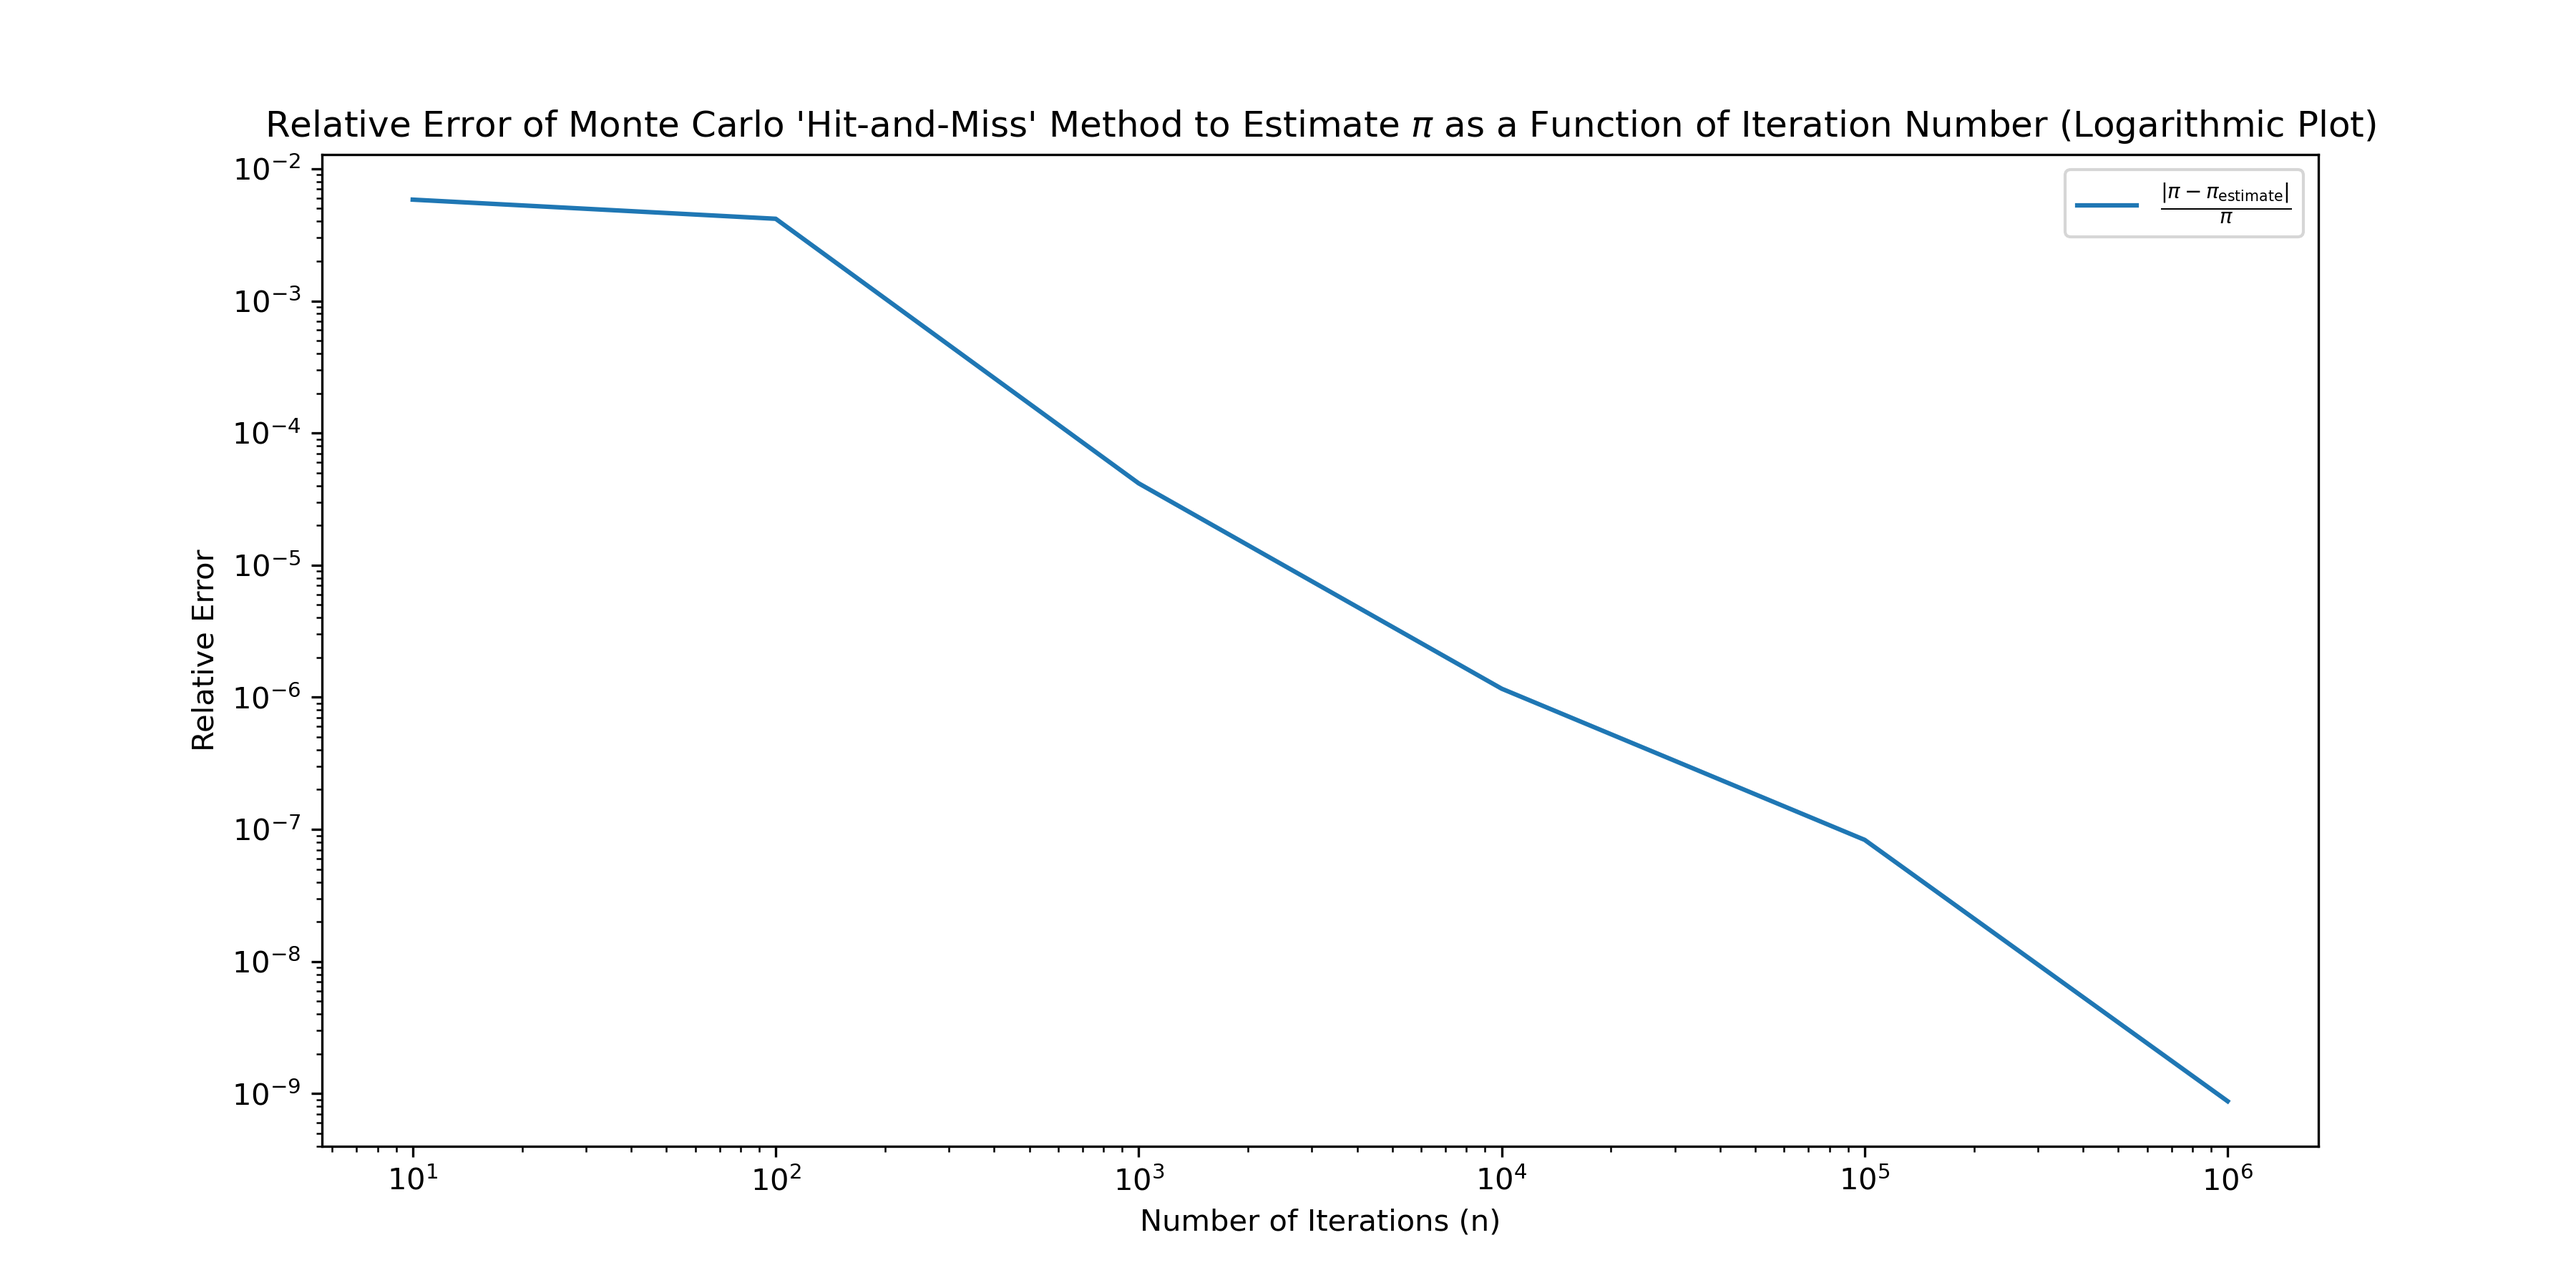
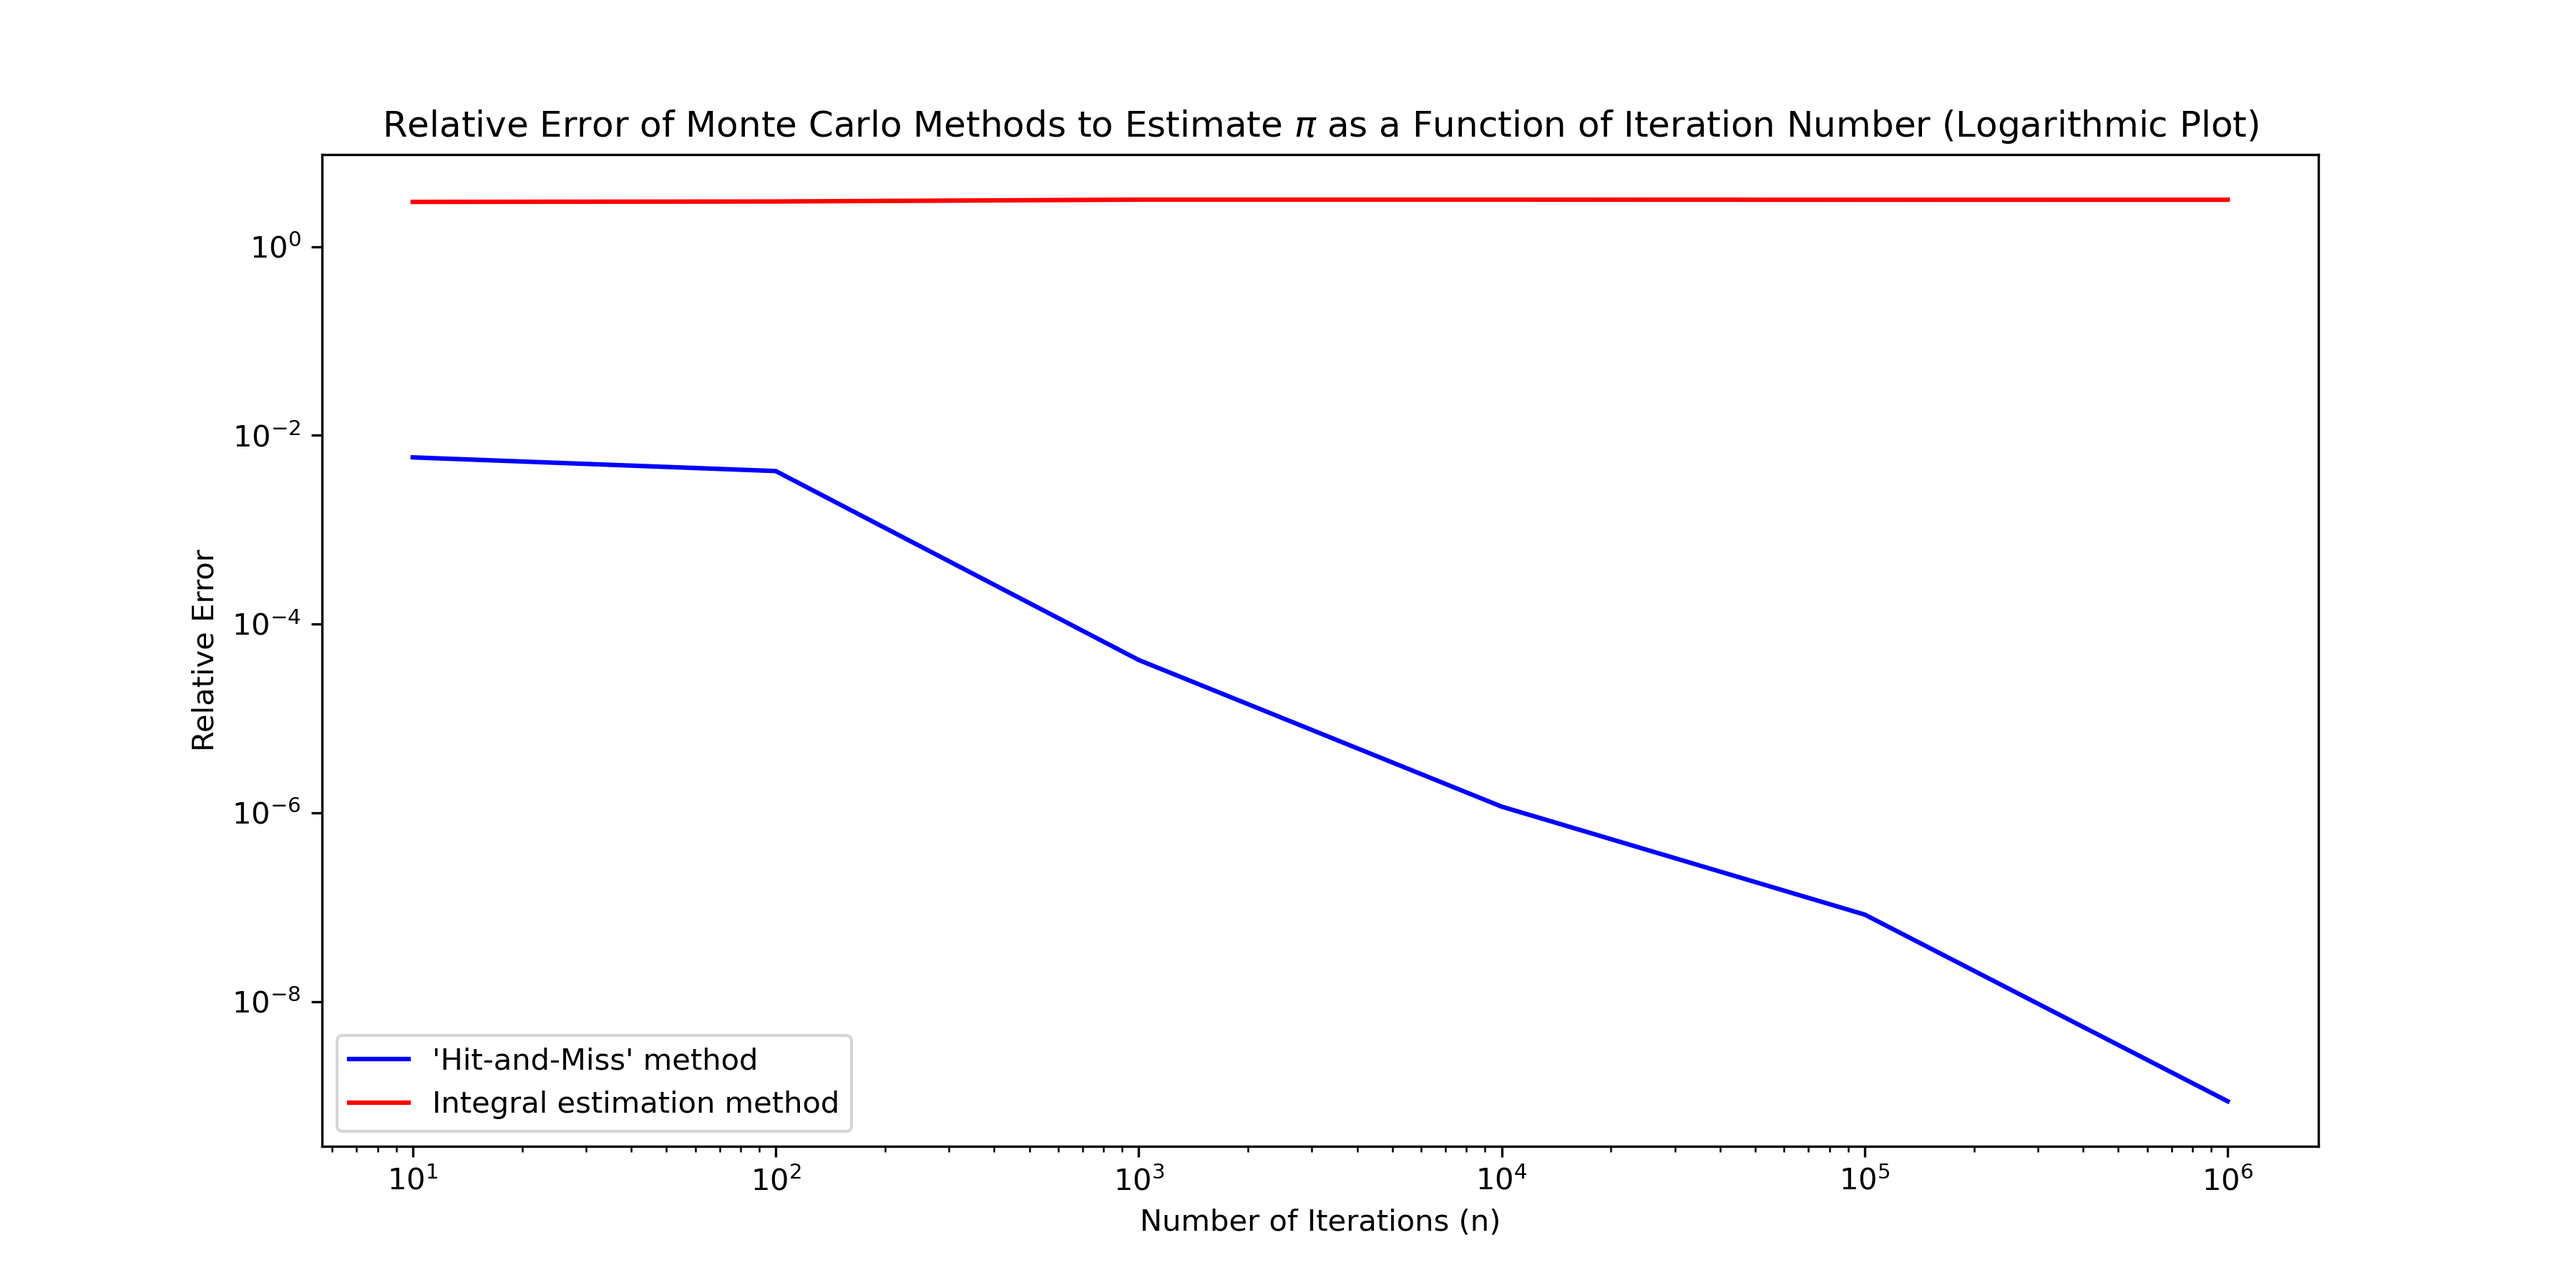
fixed plots, done for real this time

diff --git a/problem_1_plotting.py b/problem_1_plotting.py
@@ -3,26 +3,35 @@ import matplotlib
 import numpy as np
 import matplotlib.pyplot as plt
 
-filename = "monte_carlo_hit-and-miss_pi.dat"
+ham = "monte_carlo_hit-and-miss_pi.dat"
 
-data = np.loadtxt(filename, skiprows=1)  # first line is header; columns are n, estimate, rel error
+data_ham = np.loadtxt(ham, skiprows=1)  # first line is header; columns are n, estimate, rel error
 
-n_values = data[:, 0]
-relative_error_values = data[:, 2]
+
+mc = "monte_carlo_integration_pi.dat"
+
+data_int = np.loadtxt(mc, skiprows=1)
+
+ham_n = data_ham[:, 0]
+ham_re = data_ham[:, 2]
+
+mc_n = data_int[:, 0]
+mc_re = data_int[:, 1]
 
 plt.figure(figsize=(12,6))
-plt.loglog(n_values, relative_error_values, label=r"$\frac{|\pi - \pi_{\mathrm{estimate}}|}{\pi}$")
+plt.loglog(ham_n, ham_re, color = 'b', label="'Hit-and-Miss' method")
+plt.loglog(mc_n, mc_re, color = 'r', label="Integral estimation method")
 
 plt.xlabel("Number of Iterations (n)")
 plt.ylabel("Relative Error")
-plt.title(r"Relative Error of Monte Carlo 'Hit-and-Miss' Method to Estimate $\pi$ as a Function of Iteration Number (Logarithmic Plot)")
+plt.title(r"Relative Error of Monte Carlo Methods to Estimate $\pi$ as a Function of Iteration Number (Logarithmic Plot)")
 plt.legend()
 
 save_choice = input("Would you like to save the figure? (y/n): ").strip().lower()
 
 if save_choice == "y":
     plt.savefig("PS6_#1_-_MCham_relative_error_plot.png", dpi=300)
-    print("Figure saved as 'PS6_#1_-_MCham_relative_error_plot.png'")
+    print("Figure saved as 'PS6_#1_-_MC_relative_error_plot.png'")
 
 else:
     print("Figure not saved.")
